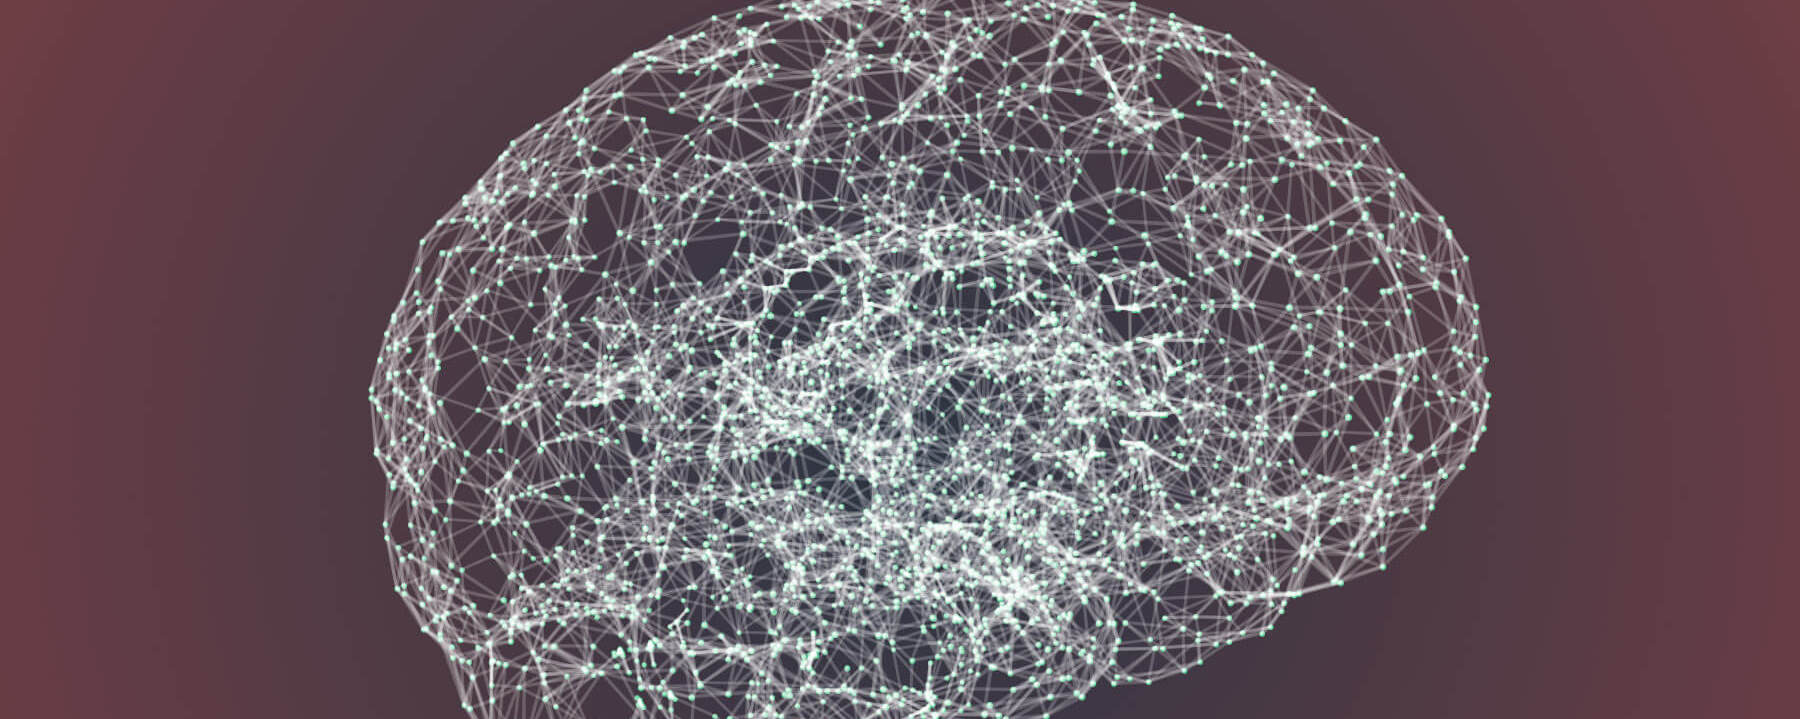
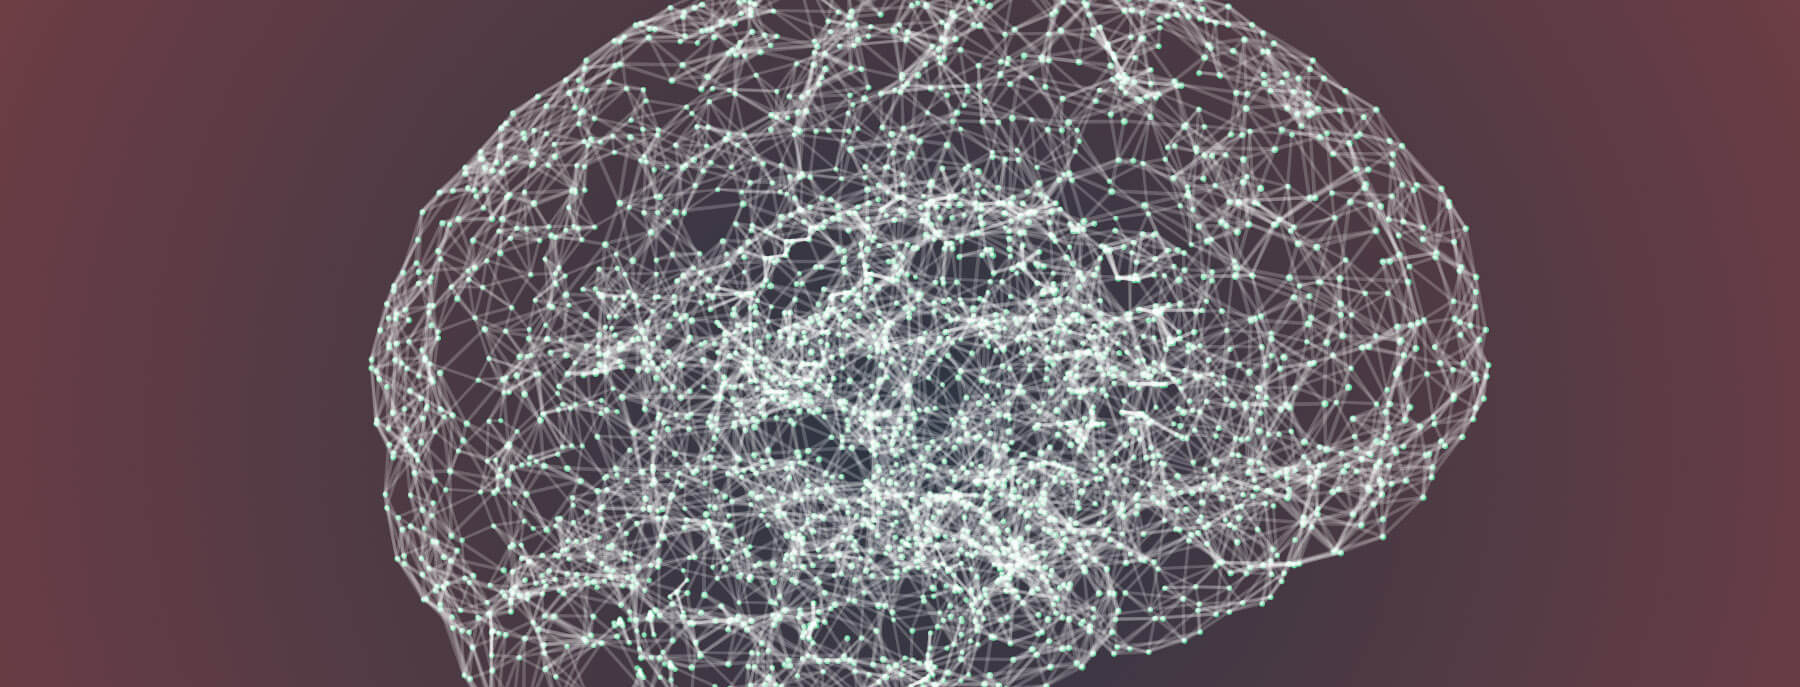
posts

diff --git a/index.html b/index.html
@@ -2,5 +2,5 @@
 layout: home
 author_profile: true
 header:
-  image: "/images/h1.jpg"
+  image: "/images/n1.jpg"
 ---
